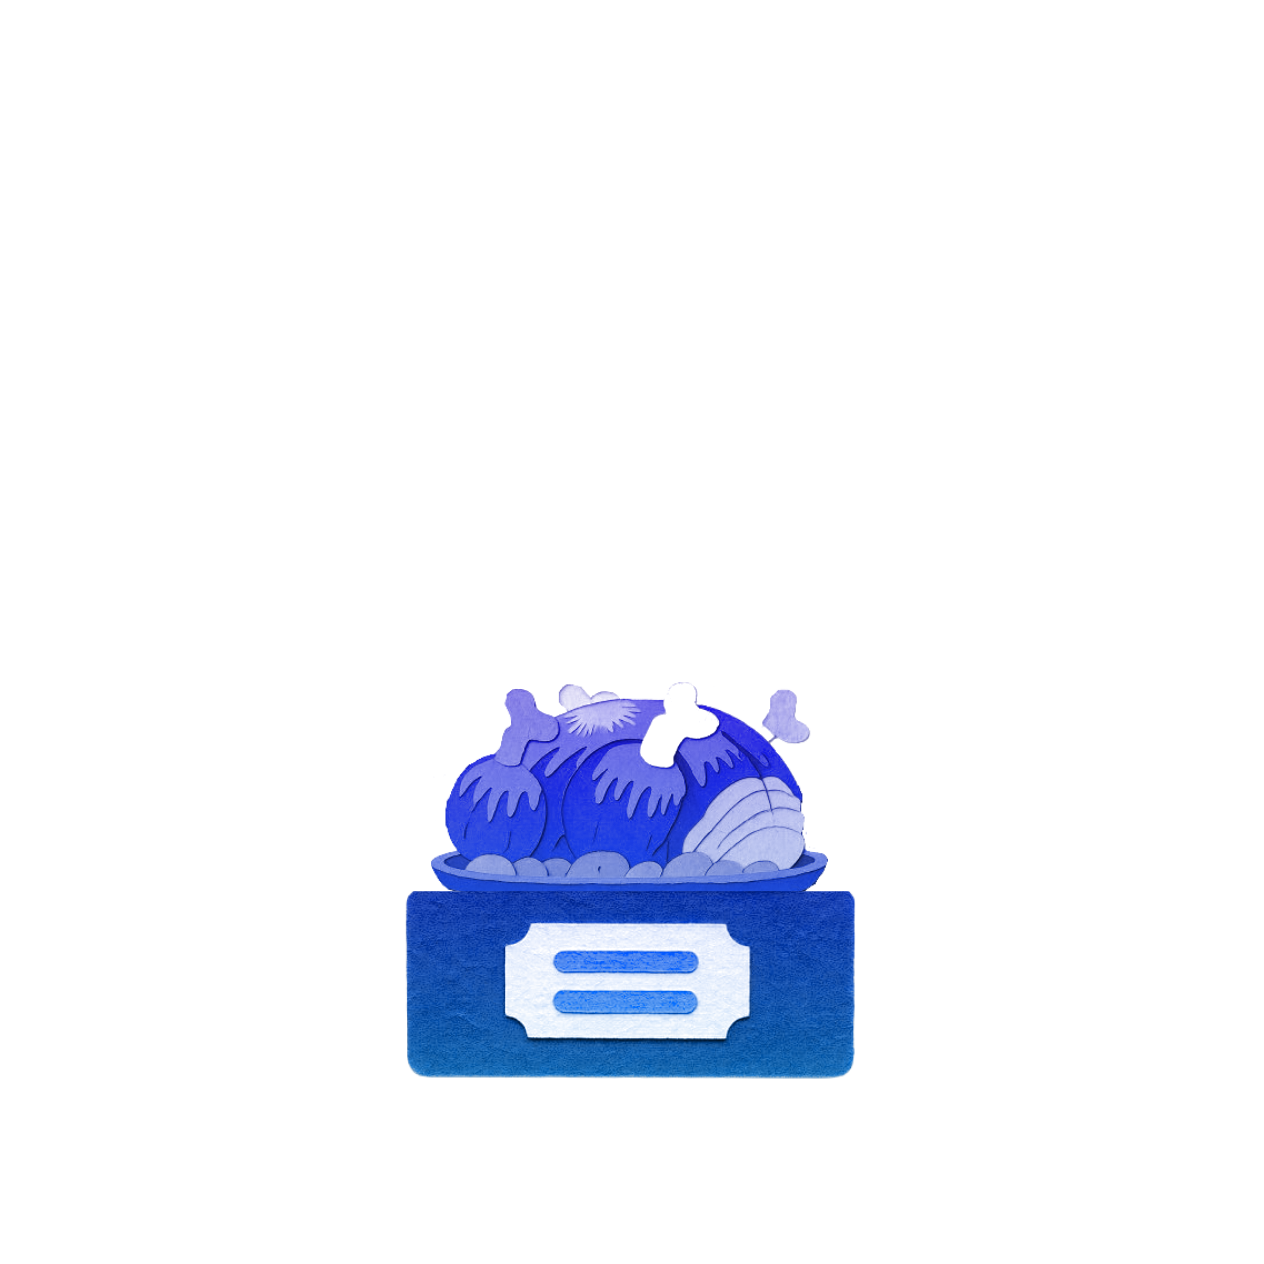
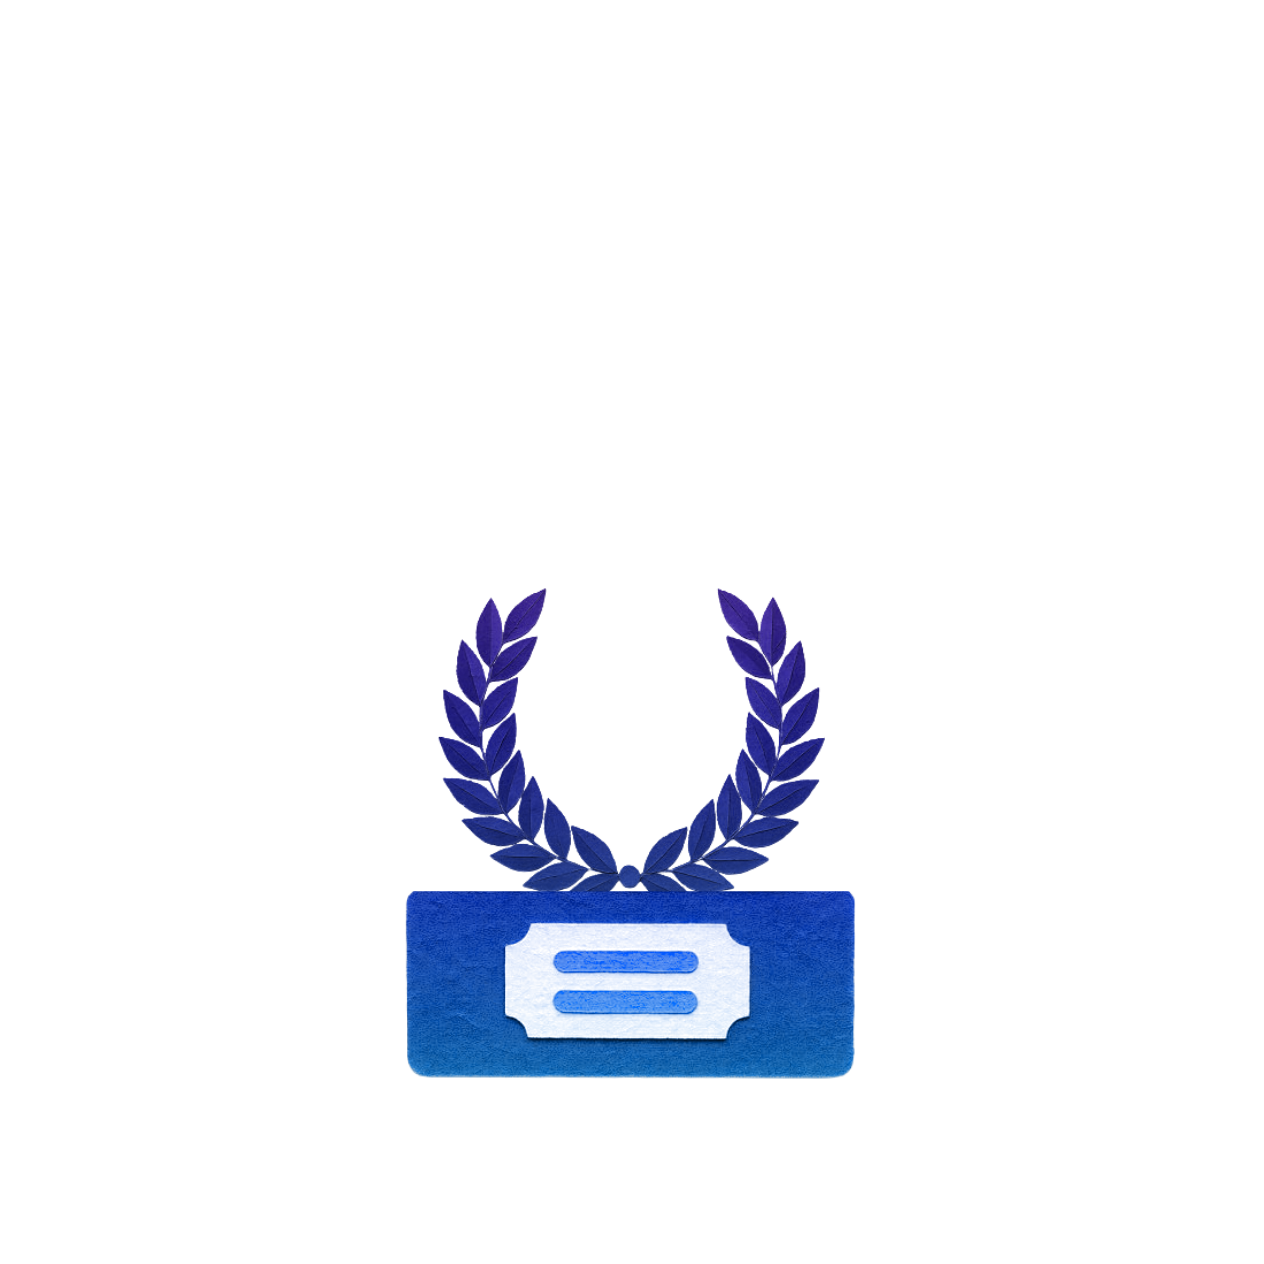
Trophee Gaulois Prismatique : couronne de laurier de Jules Cesar. Cache v177.

Changed region(s): [[0.3394, 0.4628, 0.6479, 0.7097]]

diff --git a/service-worker.js b/service-worker.js
@@ -3,7 +3,7 @@
 //   puis rafraichit en background. Prochain reload = nouvelle version.
 // - Requetes cross-origin (Firestore, iNaturalist, xeno-canto, Wikipedia, etc.) : reseau seul.
 // - Bump CACHE_VERSION quand on veut invalider volontairement.
-const CACHE_VERSION = 'v176-2026-09-15-gaulois-diamant-obelix';
+const CACHE_VERSION = 'v177-2026-09-15-gaulois-violet-cesar-couronne';
 const CACHE_NAME = 'lmb-' + CACHE_VERSION;
 
 self.addEventListener('install', (e) => {
